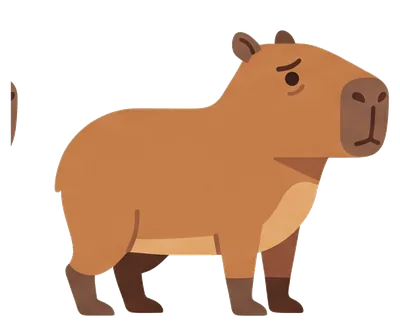
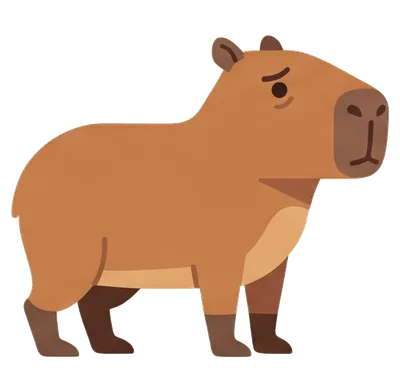
Add mood-plus-wealth sprites from a second Gemini sheet
Six more sprites (worried and happy with sunglasses, chain and crown) so the
accessories no longer vanish when the mood changes. cut-sprites.py now takes
a grid, a name list, cells to mirror and a shared canvas, and blanks the
fragments a neighbouring cell pokes across the grid line; both sheets are cut
on one 622x573 canvas so every sprite is the same scale.

Claude-Session: https://claude.ai/code/session_017yYHzfKDqTR1q54WVEq5yi

diff --git a/src/ui/Capivara.svelte b/src/ui/Capivara.svelte
@@ -1,15 +1,17 @@
 <script lang="ts">
   /**
-   * The mascot. `wealth` 0..3 picks the accessories as the player's net worth grows;
-   * a non-calm `mood` wins over wealth, because the brow is the signal the player needs.
-   * Sprites are cropped from assets/raw/capi-sheet-gemini-2026-11-07.jpg (see ASSETS.md).
+   * The mascot. `wealth` 0..3 picks the accessories as the player's net worth grows and
+   * `mood` picks the expression; every combination has its own sprite.
+   * Sprites are cut from the two sheets in assets/raw by scripts/cut-sprites.py (see ASSETS.md).
    */
   let { wealth = 0, mood = 'calm', size = 96 }: { wealth?: number; mood?: 'calm' | 'worried' | 'happy'; size?: number } = $props();
 
   const base = import.meta.env.BASE_URL;
-  const sprite = $derived(mood === 'calm' ? `wealth${Math.max(0, Math.min(3, Math.round(wealth)))}` : mood);
-  // All sprites share one canvas: 400 x 329.
-  const height = $derived(Math.round(size * (329 / 400)));
+  const level = $derived(Math.max(0, Math.min(3, Math.round(wealth))));
+  // calm → wealth0..3; worried/happy → worried, worried1..3, happy, happy1..3 (accessories kept).
+  const sprite = $derived(mood === 'calm' ? `wealth${level}` : level === 0 ? mood : `${mood}${level}`);
+  // All sprites share one canvas: 400 x 368.
+  const height = $derived(Math.round(size * (368 / 400)));
 </script>
 
 <img class="capi" src="{base}capi/{sprite}.webp" width={size} {height} alt="Capivara" decoding="async" />

diff --git a/scripts/cut-sprites.py b/scripts/cut-sprites.py
@@ -1,136 +1,117 @@
 #!/usr/bin/env python3
-"""Cut the Capivara character sheet into game sprites and app icons.
+"""Cut a Capivara character sheet into game sprites and, optionally, app icons.
 
-Usage: python3 -I scripts/cut-sprites.py assets/raw/capi-sheet-gemini-2026-11-07.jpg public/capi
-Then move public/capi/icon-*.png and favicon.png up to public/.
+Usage:
+  python3 -I scripts/cut-sprites.py SHEET OUTDIR [--grid 4x2] [--names a,b,c,...]
+                                    [--flip name,...] [--canvas WxH] [--icons]
 
-Needs Pillow and numpy. The sheet is a 4x2 grid on a flat #f9eddd background:
-row 1 = wealth 0..3 (plain, sunglasses, chain, crown); row 2 = calm, worried, happy, icon.
+The sheet is a grid of the same character on a flat background (#f9eddd as Gemini
+rendered it). Cells are named left to right, top to bottom; "-" skips a cell.
+--canvas fixes the source-pixel canvas every sprite is placed on, so sprites cut from
+different sheets come out at the same scale. Both sheets so far use 622x573.
+--icons also writes icon-512.png, icon-192.png and favicon.png from the cell named "icon".
+
+Needs Pillow and numpy.
+
+Sheets used so far:
+  assets/raw/capi-sheet-gemini-2026-11-07.jpg        --names wealth0,wealth1,wealth2,wealth3,-,worried,happy,icon --icons
+  assets/raw/capi-sheet-moods-gemini-2026-11-07.jpg  --names -,worried1,worried2,worried3,happy1,-,happy2,happy3 --flip happy3 --canvas 622x573
 """
-import sys, os
-from PIL import Image, ImageDraw
+import argparse
+import os
+
 import numpy as np
+from PIL import Image, ImageDraw
 
-src, outdir = sys.argv[1], sys.argv[2]
-os.makedirs(outdir, exist_ok=True)
-im = Image.open(src).convert('RGB')
+ap = argparse.ArgumentParser()
+ap.add_argument('src')
+ap.add_argument('outdir')
+ap.add_argument('--grid', default='4x2')
+ap.add_argument('--names', required=True)
+ap.add_argument('--flip', default='')
+ap.add_argument('--canvas', default='')
+ap.add_argument('--icons', action='store_true')
+ap.add_argument('--width', type=int, default=400)
+args = ap.parse_args()
+
+os.makedirs(args.outdir, exist_ok=True)
+cols, rows = (int(x) for x in args.grid.lower().split('x'))
+names = args.names.split(',')
+assert len(names) == cols * rows, f'expected {cols * rows} names, got {len(names)}'
+flip = set(filter(None, args.flip.split(',')))
+
+im = Image.open(args.src).convert('RGB')
 W, H = im.size
 a = np.asarray(im).astype(np.int32)
 bg = np.array([249, 237, 221], dtype=np.int32)
 dist = np.sqrt(((a - bg) ** 2).sum(axis=2))
-# soft key: 0 alpha within 14 of the bg colour, full alpha beyond 44
+# Soft key: transparent within 14 of the background colour, opaque beyond 44.
 alpha = np.clip((dist - 14) / 30.0, 0, 1)
-# un-premultiply fringe: push edge pixels toward the fur colour instead of cream
-rgba = np.dstack([a.astype(np.uint8), (alpha * 255).astype(np.uint8)])
-full = Image.fromarray(rgba, 'RGBA')
+full = Image.fromarray(np.dstack([a.astype(np.uint8), (alpha * 255).astype(np.uint8)]), 'RGBA')
 
-cols, rows = 4, 2
 cw, ch = W // cols, H // rows
-names = [['wealth0', 'wealth1', 'wealth2', 'wealth3'], ['calm', 'worried', 'happy', 'icon']]
-cells = {}
-boxes = {}
-for r in range(rows):
-    for c in range(cols):
-        cell = full.crop((c * cw, r * ch, (c + 1) * cw, (r + 1) * ch))
-        al = np.asarray(cell)[:, :, 3]
-        ys, xs = np.where(al > 20)
-        boxes[names[r][c]] = (xs.min(), ys.min(), xs.max() + 1, ys.max() + 1)
-        cells[names[r][c]] = cell
+cells, boxes = {}, {}
+for i, name in enumerate(names):
+    if name == '-':
+        continue
+    r, c = divmod(i, cols)
+    cell = full.crop((c * cw, r * ch, (c + 1) * cw, (r + 1) * ch))
+    if name in flip:
+        cell = cell.transpose(Image.Transpose.FLIP_LEFT_RIGHT)
+    # Neighbouring cells can poke a nose or crown across the grid line. Keep only the
+    # contiguous run of columns and rows that contains the cell centre; blank the rest.
+    arr = np.array(cell)
+    al = arr[:, :, 3]
+    for axis, centre in ((0, cw // 2), (1, ch // 2)):
+        present = (al > 20).any(axis=axis)
+        lo = centre
+        while lo > 0 and present[lo - 1]:
+            lo -= 1
+        hi = centre
+        while hi < len(present) - 1 and present[hi + 1]:
+            hi += 1
+        keep = np.zeros_like(present)
+        keep[lo : hi + 1] = True
+        if axis == 0:
+            arr[:, ~keep, 3] = 0
+        else:
+            arr[~keep, :, 3] = 0
+        al = arr[:, :, 3]
+    cell = Image.fromarray(arr, 'RGBA')
+    ys, xs = np.where(al > 20)
+    boxes[name] = (int(xs.min()), int(ys.min()), int(xs.max()) + 1, int(ys.max()) + 1)
+    cells[name] = cell
 
-# Common canvas: the largest content box plus a margin, bottom-aligned so feet line up.
 bw = max(b[2] - b[0] for b in boxes.values())
 bh = max(b[3] - b[1] for b in boxes.values())
 m = int(0.03 * max(bw, bh))
-CW, CH = bw + 2 * m, bh + 2 * m
-TARGET_W = 400
-report = []
+if args.canvas:
+    CW, CH = (int(x) for x in args.canvas.lower().split('x'))
+    assert bw <= CW and bh <= CH, f'content {bw}x{bh} does not fit canvas {CW}x{CH}'
+    # Keep the sheet-to-sheet scale exact; shrink the margin instead of the canvas.
+    m = min(m, (CW - bw) // 2, (CH - bh) // 2)
+else:
+    CW, CH = bw + 2 * m, bh + 2 * m
+
 for name, cell in cells.items():
     x0, y0, x1, y1 = boxes[name]
     content = cell.crop((x0, y0, x1, y1))
     canvas = Image.new('RGBA', (CW, CH), (0, 0, 0, 0))
     canvas.paste(content, ((CW - content.width) // 2, CH - m - content.height), content)
-    scale = TARGET_W / CW
-    out = canvas.resize((TARGET_W, round(CH * scale)), Image.LANCZOS)
-    p = os.path.join(outdir, f'{name}.webp')
-    if name not in ('calm', 'icon'):
+    scale = args.width / CW
+    out = canvas.resize((args.width, round(CH * scale)), Image.LANCZOS)
+    if name != 'icon':
+        p = os.path.join(args.outdir, f'{name}.webp')
         out.save(p, 'WEBP', quality=82, alpha_quality=95, method=6)
-        report.append((name, out.size, os.path.getsize(p)))
-    if name == 'icon':
+        print(f'{name:10s} {out.size[0]}x{out.size[1]}  {os.path.getsize(p) / 1024:.1f} KB')
+    if name == 'icon' and args.icons:
         for size in (512, 192):
             ic = Image.new('RGBA', (size, size), (0, 0, 0, 0))
-            d = ImageDraw.Draw(ic)
-            d.rounded_rectangle((0, 0, size - 1, size - 1), radius=int(size * 0.22), fill=(47, 111, 78, 255))
-            inner = int(size * 0.80)
-            s2 = inner / max(canvas.width, canvas.height)
+            ImageDraw.Draw(ic).rounded_rectangle((0, 0, size - 1, size - 1), radius=int(size * 0.22), fill=(47, 111, 78, 255))
+            s2 = int(size * 0.80) / max(canvas.width, canvas.height)
             sub = canvas.resize((round(canvas.width * s2), round(canvas.height * s2)), Image.LANCZOS)
             ic.paste(sub, ((size - sub.width) // 2, (size - sub.height) // 2 + int(size * 0.02)), sub)
-            ip = os.path.join(outdir, f'icon-{size}.png')
-            ic.quantize(colors=128, method=Image.Quantize.FASTOCTREE).save(ip, 'PNG', optimize=True)
-            report.append((f'icon-{size}', ic.size, os.path.getsize(ip)))
+            ic.quantize(colors=128, method=Image.Quantize.FASTOCTREE).save(os.path.join(args.outdir, f'icon-{size}.png'), 'PNG', optimize=True)
             if size == 192:
-                ic.resize((64, 64), Image.LANCZOS).quantize(colors=64, method=Image.Quantize.FASTOCTREE).save(os.path.join(outdir, 'favicon.png'), 'PNG', optimize=True)
-for n, s, b in report:
-    print(f'{n:10s} {s[0]}x{s[1]}  {b/1024:.1f} KB')
-print('canvas', CW, CH, 'boxes', {k: (v[2]-v[0], v[3]-v[1]) for k, v in boxes.items()})
-
-src, outdir = sys.argv[1], sys.argv[2]
-os.makedirs(outdir, exist_ok=True)
-im = Image.open(src).convert('RGB')
-W, H = im.size
-a = np.asarray(im).astype(np.int32)
-bg = np.array([249, 237, 221], dtype=np.int32)
-dist = np.sqrt(((a - bg) ** 2).sum(axis=2))
-# soft key: 0 alpha within 14 of the bg colour, full alpha beyond 44
-alpha = np.clip((dist - 14) / 30.0, 0, 1)
-# un-premultiply fringe: push edge pixels toward the fur colour instead of cream
-rgba = np.dstack([a.astype(np.uint8), (alpha * 255).astype(np.uint8)])
-full = Image.fromarray(rgba, 'RGBA')
-
-cols, rows = 4, 2
-cw, ch = W // cols, H // rows
-names = [['wealth0', 'wealth1', 'wealth2', 'wealth3'], ['calm', 'worried', 'happy', 'icon']]
-cells = {}
-boxes = {}
-for r in range(rows):
-    for c in range(cols):
-        cell = full.crop((c * cw, r * ch, (c + 1) * cw, (r + 1) * ch))
-        al = np.asarray(cell)[:, :, 3]
-        ys, xs = np.where(al > 20)
-        boxes[names[r][c]] = (xs.min(), ys.min(), xs.max() + 1, ys.max() + 1)
-        cells[names[r][c]] = cell
-
-# Common canvas: the largest content box plus a margin, bottom-aligned so feet line up.
-bw = max(b[2] - b[0] for b in boxes.values())
-bh = max(b[3] - b[1] for b in boxes.values())
-m = int(0.03 * max(bw, bh))
-CW, CH = bw + 2 * m, bh + 2 * m
-TARGET_W = 400
-report = []
-for name, cell in cells.items():
-    x0, y0, x1, y1 = boxes[name]
-    content = cell.crop((x0, y0, x1, y1))
-    canvas = Image.new('RGBA', (CW, CH), (0, 0, 0, 0))
-    canvas.paste(content, ((CW - content.width) // 2, CH - m - content.height), content)
-    scale = TARGET_W / CW
-    out = canvas.resize((TARGET_W, round(CH * scale)), Image.LANCZOS)
-    p = os.path.join(outdir, f'{name}.webp')
-    if name not in ('calm', 'icon'):
-        out.save(p, 'WEBP', quality=82, alpha_quality=95, method=6)
-        report.append((name, out.size, os.path.getsize(p)))
-    if name == 'icon':
-        for size in (512, 192):
-            ic = Image.new('RGBA', (size, size), (0, 0, 0, 0))
-            d = ImageDraw.Draw(ic)
-            d.rounded_rectangle((0, 0, size - 1, size - 1), radius=int(size * 0.22), fill=(47, 111, 78, 255))
-            inner = int(size * 0.80)
-            s2 = inner / max(canvas.width, canvas.height)
-            sub = canvas.resize((round(canvas.width * s2), round(canvas.height * s2)), Image.LANCZOS)
-            ic.paste(sub, ((size - sub.width) // 2, (size - sub.height) // 2 + int(size * 0.02)), sub)
-            ip = os.path.join(outdir, f'icon-{size}.png')
-            ic.quantize(colors=128, method=Image.Quantize.FASTOCTREE).save(ip, 'PNG', optimize=True)
-            report.append((f'icon-{size}', ic.size, os.path.getsize(ip)))
-            if size == 192:
-                ic.resize((64, 64), Image.LANCZOS).quantize(colors=64, method=Image.Quantize.FASTOCTREE).save(os.path.join(outdir, 'favicon.png'), 'PNG', optimize=True)
-for n, s, b in report:
-    print(f'{n:10s} {s[0]}x{s[1]}  {b/1024:.1f} KB')
-print('canvas', CW, CH, 'boxes', {k: (v[2]-v[0], v[3]-v[1]) for k, v in boxes.items()})
+                ic.resize((64, 64), Image.LANCZOS).quantize(colors=64, method=Image.Quantize.FASTOCTREE).save(os.path.join(args.outdir, 'favicon.png'), 'PNG', optimize=True)
+print('canvas', CW, 'x', CH, 'content boxes', {k: (v[2] - v[0], v[3] - v[1]) for k, v in boxes.items()})

diff --git a/ASSETS.md b/ASSETS.md
@@ -2,7 +2,7 @@
 
 | Asset | Origem | Licença |
 |---|---|---|
-| Capivara (mascote): `public/capi/*.webp`, `public/icon-*.png`, `public/favicon.png`; fonte em `assets/raw/capi-sheet-gemini-2026-11-07.jpg` | Gerada com o Google Gemini em 2026-11-07 a partir de um prompt do projeto (folha de personagem com 8 poses), depois recortada, com fundo removido e reexportada em WebP por `scripts/cut-sprites.py`. Imagem gerada por IA: o projeto não reivindica autoria; a distribui sob CC BY 4.0 na medida em que puder licenciá-la. | CC BY 4.0 (ver nota) |
+| Capivara (mascote): `public/capi/*.webp`, `public/icon-*.png`, `public/favicon.png`; fontes em `assets/raw/capi-sheet-gemini-2026-11-07.jpg` e `assets/raw/capi-sheet-moods-gemini-2026-11-07.jpg` | Gerada com o Google Gemini em 2026-11-07 a partir de prompts do projeto (duas folhas de personagem, 8 poses cada), depois recortada, com fundo removido e reexportada em WebP por `scripts/cut-sprites.py`. Imagem gerada por IA: o projeto não reivindica autoria; a distribui sob CC BY 4.0 na medida em que puder licenciá-la. | CC BY 4.0 (ver nota) |
 | Fontes | Pilha de fontes do sistema (nenhuma fonte baixada, por privacidade) | n/a |
 
 Nenhum ativo de terceiros ainda. Ao adicionar um, registre aqui: arquivo, autor, link e licença.
